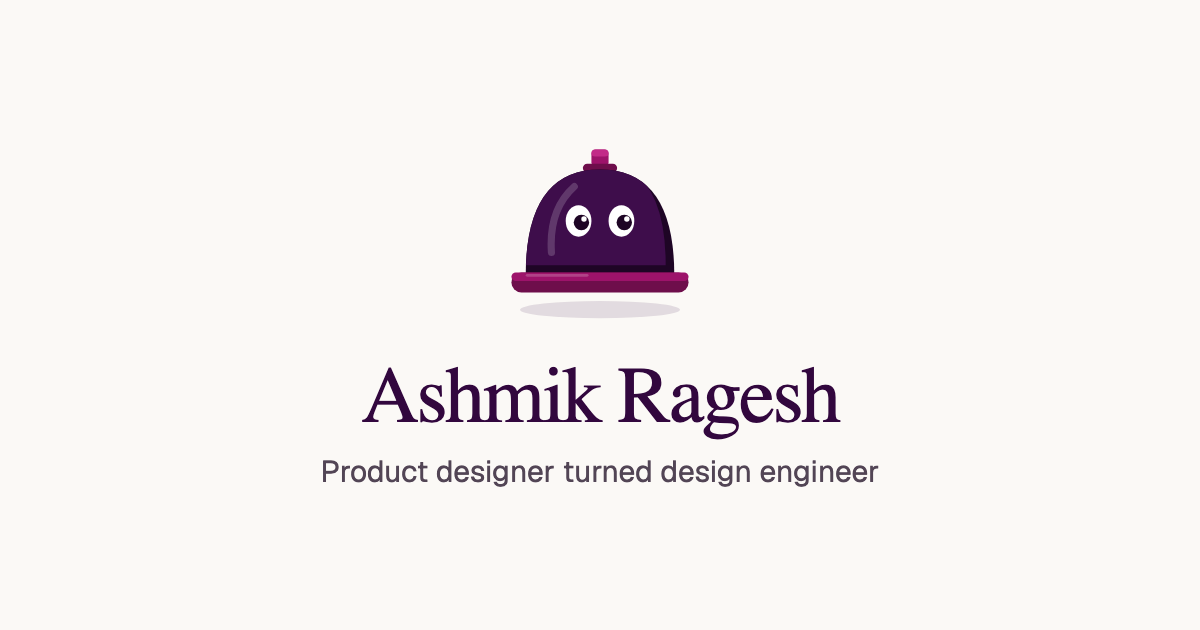
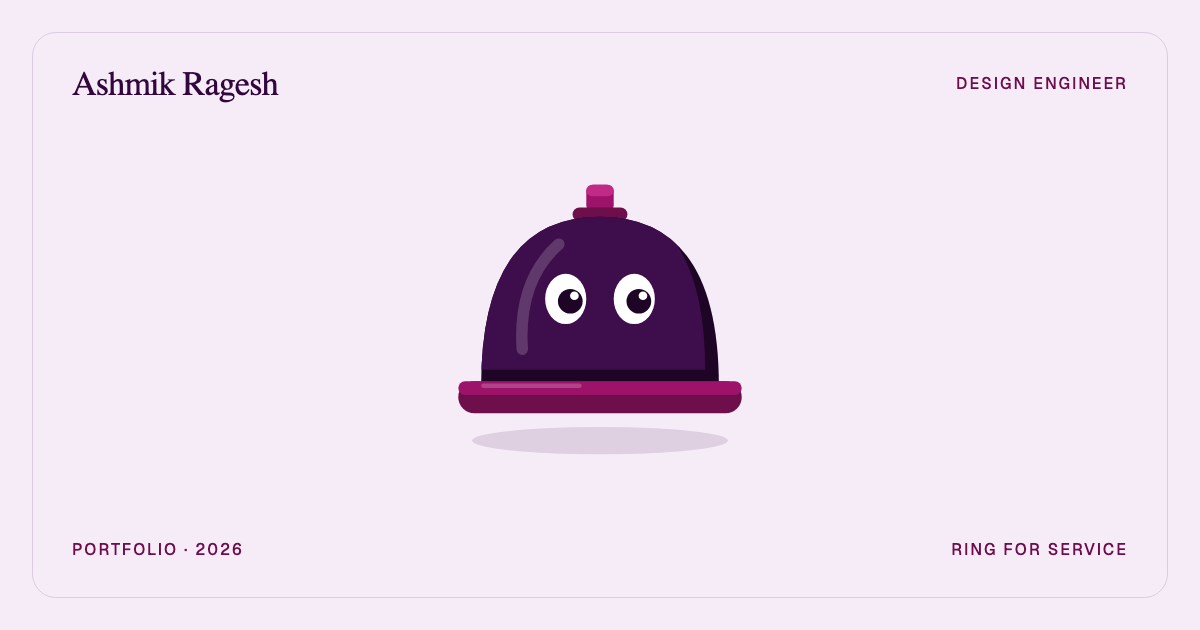
Link preview: Bella centred in a framed card with corner labels

diff --git a/scripts/og-image.html b/scripts/og-image.html
@@ -1,7 +1,7 @@
 <!doctype html>
 <!-- The link-preview image (src/app/opengraph-image.png and twitter-image.png), 1200x630.
-     Kept minimal on purpose, like other designers' previews: one flat background, Bella, the
-     name in the primary serif and the role in the secondary font, all centred.
+     Bella in the centre of a framed card, like a hotel's front-desk card, with four small
+     labels in the corners: the name in the primary serif, the rest in Geist caps.
      To change it, edit this file, then from the repo root run:
      "/Applications/Google Chrome.app/Contents/MacOS/Google Chrome" --headless=new --hide-scrollbars --allow-file-access-from-files --window-size=1200,630 --virtual-time-budget=3000 --screenshot=src/app/opengraph-image.png "file://$PWD/scripts/og-image.html"
      and copy the result to src/app/twitter-image.png. -->
@@ -11,18 +11,26 @@
 <style>
   @font-face { font-family: Serif; src: url("../src/app/fonts/source-serif-4-latin-wght-normal.woff2") format("woff2"); font-weight: 200 900; }
   @font-face { font-family: Geist; src: url("../src/app/fonts/Geist-Variable.woff2") format("woff2"); font-weight: 100 900; }
-  html, body { margin: 0; width: 1200px; height: 630px; overflow: hidden; background: #fbf9f6; }
-  .card { width: 1200px; height: 630px; display: flex; flex-direction: column; align-items: center; justify-content: center; text-align: center; }
-  img { width: 200px; height: auto; display: block; }
-  h1 { font-family: Serif; font-weight: 400; font-size: 80px; line-height: 88px; letter-spacing: -2.4px; color: #32073e; margin: 28px 0 0; }
-  p { font-family: Geist; font-weight: 400; font-size: 30px; line-height: 40px; color: #524555; margin: 12px 0 0; }
+  html, body { margin: 0; width: 1200px; height: 630px; overflow: hidden; background: #f6ecf8; }
+  .card { position: relative; width: 1200px; height: 630px; }
+  .frame { position: absolute; inset: 32px; border: 1.5px solid rgba(50, 7, 62, 0.14); border-radius: 24px; }
+  .bella { position: absolute; left: 50%; top: 50%; width: 320px; transform: translate(-50%, -50%); }
+  .c { position: absolute; color: #32073e; }
+  .tl { left: 72px; top: 64px; font-family: Serif; font-size: 34px; line-height: 40px; letter-spacing: -0.8px; }
+  .label { font-family: Geist; font-weight: 500; font-size: 16px; line-height: 20px; letter-spacing: 2px; text-transform: uppercase; color: #6e0d4b; }
+  .tr { right: 72px; top: 74px; }
+  .bl { left: 72px; bottom: 70px; }
+  .br { right: 72px; bottom: 70px; }
 </style>
 </head>
 <body>
   <div class="card">
-    <img src="../public/images/bella/final-bella.svg" alt="">
-    <h1>Ashmik Ragesh</h1>
-    <p>Product designer turned design engineer</p>
+    <div class="frame"></div>
+    <div class="c tl">Ashmik Ragesh</div>
+    <div class="c label tr">Design Engineer</div>
+    <div class="c label bl">Portfolio · 2026</div>
+    <div class="c label br">Ring for service</div>
+    <img class="bella" src="../public/images/bella/final-bella.svg" alt="">
   </div>
 </body>
 </html>
